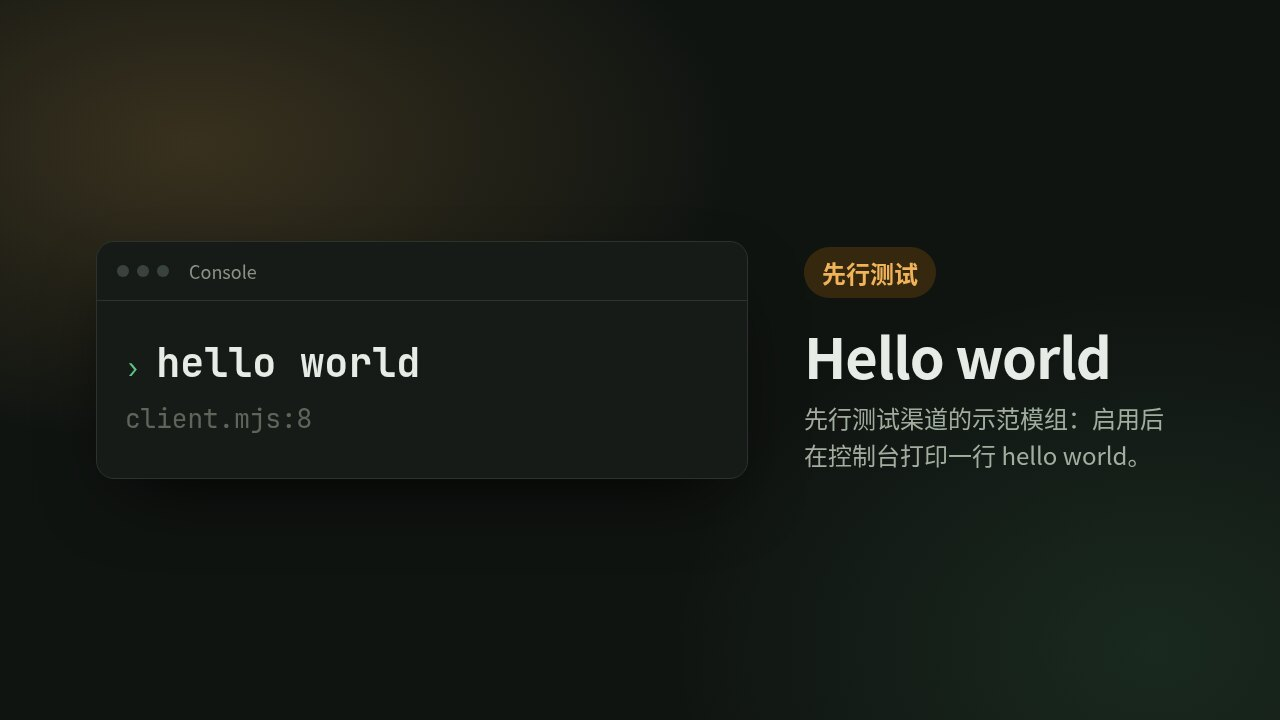
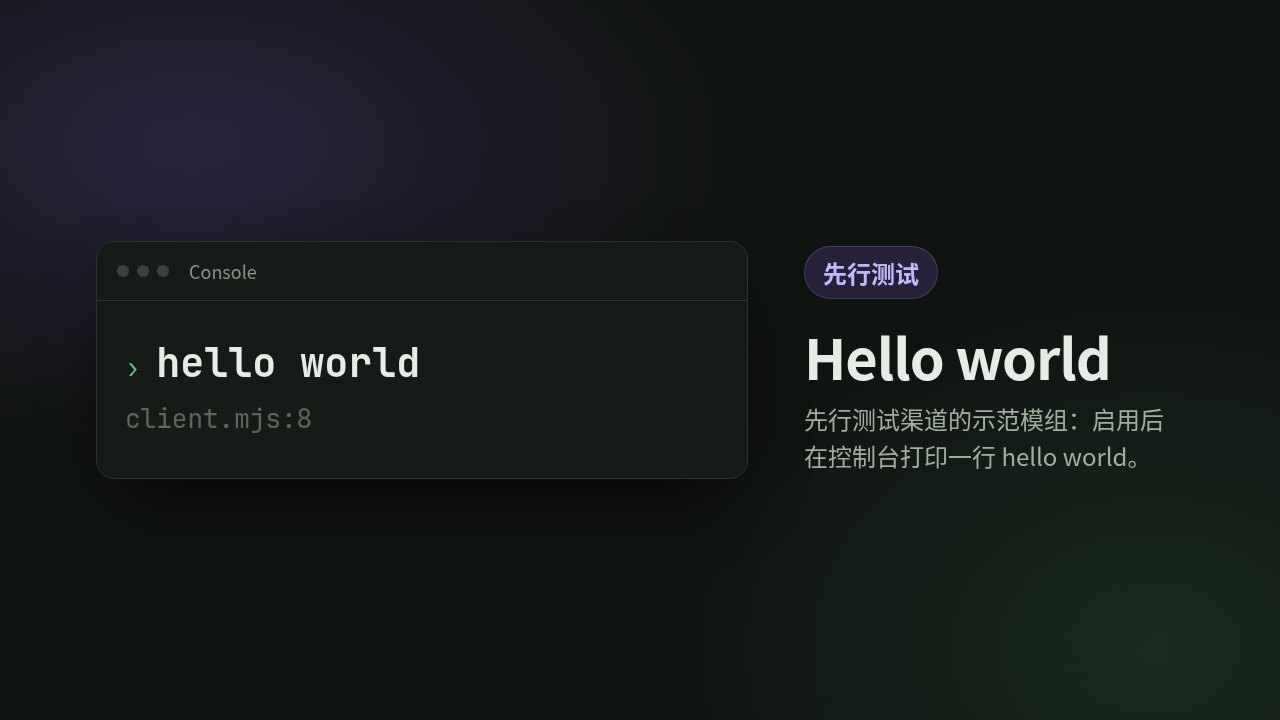
fix(mods): 按审查意见补全先行测试的文档与细节
- docs/folium/contributing.md：签名状态表与发布说明加入先行测试渠道
- sample-beta-hello 介绍图的徽章改用紫色，与面板一致，并重新签名
- 只有缺省的 channel 视为正式发布，null、空串等一律按不受信任处理
- 测试补充 __proto__、toString、空值等渠道，以及 beta 对话框不含官方认证文案

diff --git a/test/unit/mod-system/modSignature.test.ts b/test/unit/mod-system/modSignature.test.ts
@@ -217,7 +217,7 @@ describe('verifyModSignature', () => {
     });
 
     it('treats a key with a channel the host does not know as untrusted, never as verified', () => {
-        for (const channel of ['Beta', 'preview', 'constructor']) {
+        for (const channel of ['Beta', 'preview', 'constructor', '__proto__', 'toString', '', null]) {
             const keys = [{ ...TEST_KEYS[0], channel }];
             expect(verifyModSignature(signedVectorTree(), VECTOR_MANIFEST, { keys })).toMatchObject({
                 status: 'invalid', reason: 'unknown-key',
@@ -295,5 +295,6 @@ describe('loader integration', () => {
         expect(dialogDetails[3]).toContain('Signature: preview build (Folium beta, folium-beta-2026-1)');
         expect(dialogDetails[3]).toContain('passed the security review only');
         expect(dialogDetails[3]).not.toContain('officially verified');
+        expect(dialogDetails[3]).not.toContain('official Folium signature');
     });
 });

diff --git a/docs/folium/contributing.md b/docs/folium/contributing.md
@@ -194,7 +194,12 @@ function mountHello(folium, container, ctx) {
 
 ## 6. 发布到模组市场
 
-官方模组和通过审查的社区模组收录在 [folium-compound](https://github.com/chthollyphile/folium-compound)，发布在 [模组市场](https://folium-compound.cielaniska.top)。收录的模组都带有 Folium 签名，用户安装后显示「官方认证」。
+官方模组和通过审查的社区模组收录在 [folium-compound](https://github.com/chthollyphile/folium-compound)，发布在 [模组市场](https://folium-compound.cielaniska.top)。收录的模组都带有 Folium 签名，分两个发布渠道：
+
+- **正式发布**：通过安全审查和功能审查，用户安装后显示「官方认证」。
+- **先行测试**：仅通过了安全审查，不保证功能实现的整洁，甚至功能可以完全无法工作，主要给社区开发者做创意实验。用先行测试密钥签名，用户安装后显示「先行测试」，模组市场只在「先行测试」标签页里列出它们。
+
+提交时在 issue 表单里选择渠道；维护者可以把正式发布的申请降为先行测试。先行测试的模组以后可以开「模组更新」issue 申请转为正式发布。
 
 不需要 fork 任何仓库：你只需要把模组放在自己的公开源码仓库里，再开一个 issue。
 
@@ -240,7 +245,8 @@ function mountHello(folium, container, ctx) {
 
 | 状态 | 含义 |
 | --- | --- |
-| 官方认证 | 签名有效，文件自签名后没有改动 |
+| 官方认证 | 正式发布渠道的签名有效，文件自签名后没有改动 |
+| 先行测试 | 先行测试渠道的签名有效：仅通过了安全审查，不保证功能可用 |
 | 未验证 | 没有签名文件：没有经过 Folium 审查的第三方模组 |
 | 签名不匹配 | 有签名但校验失败，最常见的原因是签名后文件被改动过（包括用户在本地修改了模组） |
 
@@ -261,4 +267,4 @@ function mountHello(folium, container, ctx) {
 不能，模组系统只在桌面版里可用。
 
 **怎样让我的模组显示「官方认证」？**
-按[第 6 节](#6-发布到模组市场)提交到 folium-compound，审查通过后由 CI 签名。本地自己签名不会被认可：只有 Folium 的密钥签出的签名会被宿主信任。
+按[第 6 节](#6-发布到模组市场)提交到 folium-compound，发布渠道选「正式发布」，通过安全审查和功能审查后由 CI 签名。只通过安全审查的模组会收录到先行测试，显示「先行测试」。本地自己签名不会被认可：只有 Folium 的密钥签出的签名会被宿主信任。
